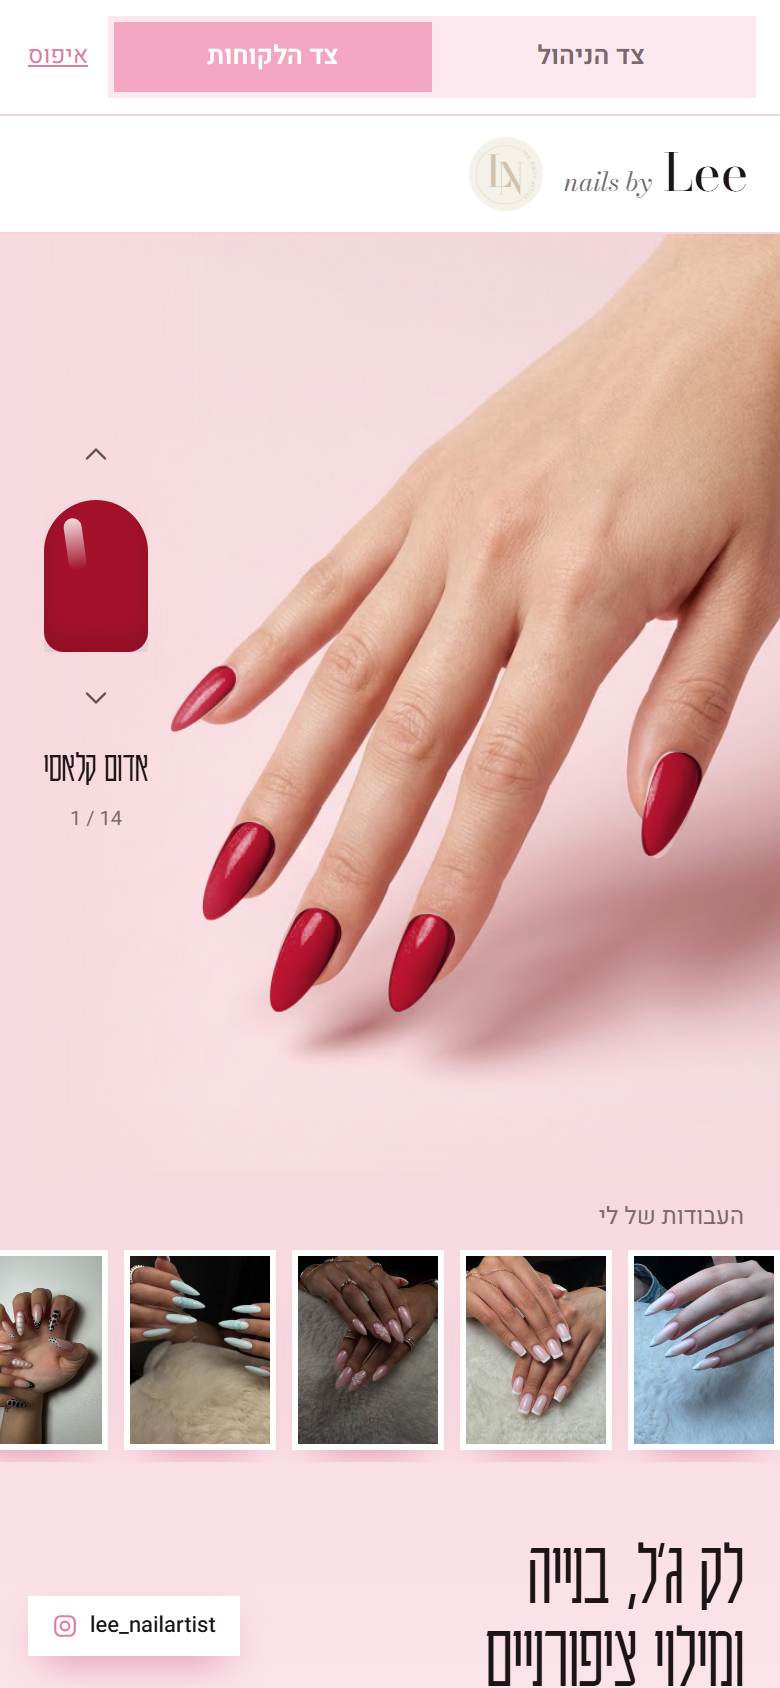
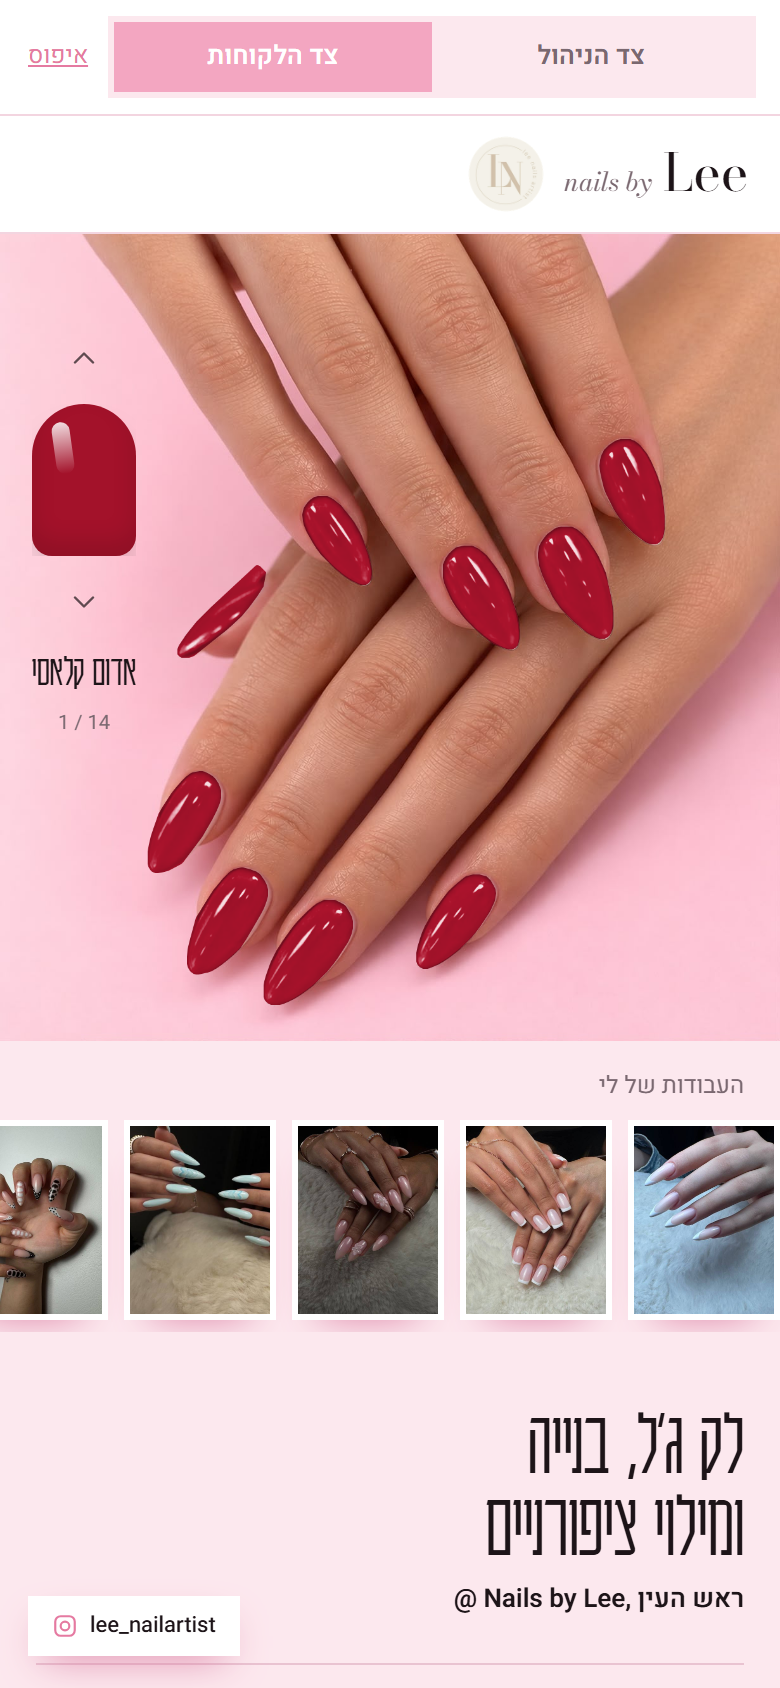
New studio photo for the try-on: ten nails, each filled by its convex outline, brush runs from cuticle to tip

diff --git a/web/src/lib/tryon.ts b/web/src/lib/tryon.ts
@@ -1,10 +1,10 @@
 import { rgbOf } from './shades';
 
 /**
- * Paints the nails of the studio hand photo (white gel on a pink set) in any shade.
- * The nails are found by colour once, then each one is measured (axis, length, width) and covered
- * with an exact almond, so the paint reaches the edge and never spills onto skin or background.
- * The photo's own light and shadow stay on the nail, with a gel shine where the original was brightest.
+ * Paints the nails of the studio hands photo (milky gel on a pink set) in any shade.
+ * The nails are found by colour once and each one is filled by its convex outline, so the paint
+ * reaches the edge and never spills onto skin or background. The photo's own light and shadow stay
+ * on the nail, with a gel shine where the original reflected the light.
  */
 export class TryOn {
   private ctx: CanvasRenderingContext2D;
@@ -13,9 +13,9 @@ export class TryOn {
   private base!: ImageData;
   private shown!: ImageData;
   private mask!: Float32Array;
-  private lum!: Float32Array;
+  private light!: Float32Array; // brightness around the nail's own average, so the white tips don't show through
   private gloss!: Float32Array;
-  private meanL = 0.85;
+  private along!: Float32Array; // 0 at the cuticle .. 1 at the tip, with a small head start per nail
   private frame = 0;
 
   constructor(private canvas: HTMLCanvasElement) {
@@ -30,105 +30,126 @@ export class TryOn {
     this.base = this.ctx.getImageData(0, 0, W, H);
     const p = this.base.data;
     const N4 = (i: number) => [i - 1, i + 1, i - W, i + W];
+    const pieces = (on: ArrayLike<number>, visit: (comp: number[]) => void) => {
+      const seen = new Uint8Array(n);
+      for (let i = 0; i < n; i++) {
+        if (!on[i] || seen[i]) continue;
+        const comp = [i];
+        seen[i] = 1;
+        for (let h = 0; h < comp.length; h++)
+          for (const j of N4(comp[h])) if (j >= 0 && j < n && on[j] && !seen[j]) (seen[j] = 1), comp.push(j);
+        visit(comp);
+      }
+    };
 
-    // white gel = light and colourless; its shaded side picks up a little pink, so grow into that a few pixels
-    const m = new Uint8Array(n);
-    const weak = new Uint8Array(n);
-    const lum = (this.lum = new Float32Array(n));
+    // The gel is light and nearly colourless. Its shaded side and the cuticle are pinker, but unlike the
+    // background their blue stays close to their green, and unlike skin it doesn't fall below it.
+    const m = new Uint8Array(n), near = new Uint8Array(n), loose = new Uint8Array(n);
+    const lum = new Float32Array(n);
     for (let i = 0; i < n; i++) {
       const r = p[i * 4], g = p[i * 4 + 1], b = p[i * 4 + 2];
-      const mx = Math.max(r, g, b), mn = Math.min(r, g, b), l = (mx + mn) / 2, s = mx ? (mx - mn) / mx : 0;
+      const mx = Math.max(r, g, b), mn = Math.min(r, g, b), l = (mx + mn) / 2, s = mx ? (mx - mn) / mx : 0, d = b - g;
       lum[i] = (0.3 * r + 0.59 * g + 0.11 * b) / 255;
-      if (s < 0.1 && l > 150) m[i] = 1;
-      if (s < 0.2 && mx < 238 && b >= g - 6 && l > 140) weak[i] = 1;
+      if (s < 0.16 && l > 170) m[i] = 1;
+      if (s < 0.3 && d >= -3 && l > 130) {
+        if (d <= 10) near[i] = 1;
+        if (d <= 18 && r < 238) loose[i] = 1;
+      }
     }
+    pieces(m.slice(), (comp) => {
+      if (comp.length < 1500) for (const a of comp) m[a] = 0;
+    });
     let front: number[] = [];
     for (let i = 0; i < n; i++) if (m[i]) front.push(i);
-    for (let d = 0; d < 6; d++) {
+    for (let d = 0; d < 60; d++) {
       const next: number[] = [];
-      for (const i of front) for (const j of N4(i)) if (j >= 0 && j < n && !m[j] && weak[j]) (m[j] = 1), next.push(j);
+      for (const i of front) for (const j of N4(i)) if (j >= 0 && j < n && !m[j] && near[j]) (m[j] = 1), next.push(j);
       front = next;
     }
 
-    // one almond per nail
+    // smooth the outline, close the reflections, drop anything that isn't nail-sized
+    let f = box(box(Float32Array.from(m), 5, W, H), 5, W, H);
+    for (let i = 0; i < n; i++) f[i] = f[i] > 0.5 ? 1 : 0;
+    const outside = new Uint8Array(n);
+    const edge: number[] = [];
+    for (let x = 0; x < W; x++) edge.push(x, (H - 1) * W + x);
+    for (let y = 0; y < H; y++) edge.push(y * W, y * W + W - 1);
+    const stack = edge.filter((i) => !f[i]);
+    for (const i of stack) outside[i] = 1;
+    while (stack.length) for (const j of N4(stack.pop()!)) if (j >= 0 && j < n && !outside[j] && !f[j]) (outside[j] = 1), stack.push(j);
+    for (let i = 0; i < n; i++) f[i] = outside[i] ? 0 : 1;
+    pieces(f.slice(), (comp) => {
+      if (comp.length < 1500) for (const a of comp) f[a] = 0;
+    });
+
+    // the cuticle side grows a little further, only above each nail's middle: the tips touch the background
+    const extra: number[] = [];
+    pieces(f, (comp) => {
+      let sum = 0;
+      for (const a of comp) sum += (a / W) | 0;
+      const mid = sum / comp.length, added = new Set<number>();
+      let ring = comp;
+      for (let d = 0; d < 30; d++) {
+        const next: number[] = [];
+        for (const a of ring)
+          for (const j of N4(a)) if (j >= 0 && j < n && !f[j] && !added.has(j) && loose[j] && ((j / W) | 0) < mid) added.add(j), next.push(j);
+        ring = next;
+      }
+      extra.push(...added);
+    });
+    for (const j of extra) f[j] = 1;
+
+    // every nail is convex: fill its outline, so notches close and nothing can leak
     const off = document.createElement('canvas');
     off.width = W;
     off.height = H;
     const ox = off.getContext('2d')!;
-    ox.fillStyle = '#fff';
-    const seen = new Uint8Array(n);
-    for (let i = 0; i < n; i++) {
-      if (!m[i] || seen[i]) continue;
-      const comp = [i];
-      seen[i] = 1;
-      for (let h = 0; h < comp.length; h++)
-        for (const j of N4(comp[h])) if (j >= 0 && j < n && m[j] && !seen[j]) (seen[j] = 1), comp.push(j);
-      if (comp.length >= 800) this.almond(ox, comp);
-    }
+    ox.fillStyle = ox.strokeStyle = '#fff';
+    ox.lineJoin = 'round';
+    ox.lineWidth = 4;
+    pieces(f, (comp) => {
+      const hull = convexHull(comp.map((a) => [a % W, (a / W) | 0]));
+      ox.beginPath();
+      hull.forEach(([x, y], k) => (k ? ox.lineTo(x, y) : ox.moveTo(x, y)));
+      ox.closePath();
+      ox.fill();
+      ox.stroke();
+    });
     const md = ox.getImageData(0, 0, W, H).data;
-    this.mask = new Float32Array(n);
+    const mask = (this.mask = new Float32Array(n));
+    for (let i = 0; i < n; i++) mask[i] = md[i * 4 + 3] / 255;
+
+    // light on the nail relative to its surroundings, measured inside the nail only
+    const inside = Float32Array.from(mask, (a) => (a > 0.5 ? 1 : 0));
+    const weighted = box(Float32Array.from(lum, (l, i) => l * inside[i]), 16, W, H);
+    const weight = box(inside, 16, W, H);
+    const soft = box(lum, 1, W, H);
+    this.light = new Float32Array(n);
     this.gloss = new Float32Array(n);
-    let sum = 0, cnt = 0;
     for (let i = 0; i < n; i++) {
-      const a = (this.mask[i] = md[i * 4 + 3] / 255);
-      if (a > 0.9) (sum += lum[i]), cnt++;
-      if (a > 0) this.gloss[i] = Math.max(0, lum[i] - 0.92) * 10;
+      if (!mask[i]) continue;
+      const local = weight[i] > 0 ? weighted[i] / weight[i] : soft[i];
+      this.light[i] = soft[i] / local;
+      this.gloss[i] = Math.max(0, soft[i] - local - 0.025) * 9;
     }
-    this.meanL = cnt ? sum / cnt : 0.85;
+
+    // the brush runs down each nail, one nail just after the other
+    this.along = new Float32Array(n);
+    let nail = 0;
+    pieces(inside, (comp) => {
+      let top = H, bottom = 0;
+      for (const a of comp) {
+        const y = (a / W) | 0;
+        if (y < top) top = y;
+        if (y > bottom) bottom = y;
+      }
+      for (const a of comp) this.along[a] = (((a / W) | 0) - top) / Math.max(1, bottom - top) + nail * 0.12;
+      nail++;
+    });
+    for (let i = 0; i < n; i++) if (mask[i] && !inside[i]) this.along[i] = this.along[i - 1] || this.along[i + 1] || this.along[i - W] || this.along[i + W] || 0;
+
     this.shown = new ImageData(new Uint8ClampedArray(p), W, H);
     this.ctx.putImageData(this.shown, 0, 0);
-  }
-
-  private almond(ox: CanvasRenderingContext2D, comp: number[]) {
-    const W = this.W;
-    let cx = 0, cy = 0;
-    for (const a of comp) (cx += a % W), (cy += (a / W) | 0);
-    cx /= comp.length;
-    cy /= comp.length;
-    let sxx = 0, syy = 0, sxy = 0;
-    for (const a of comp) {
-      const dx = (a % W) - cx, dy = ((a / W) | 0) - cy;
-      sxx += dx * dx;
-      syy += dy * dy;
-      sxy += dx * dy;
-    }
-    // principal axis, pointing to the tip (down in this photo)
-    const ang = 0.5 * Math.atan2(2 * sxy, sxx - syy);
-    let ux = Math.cos(ang), uy = Math.sin(ang);
-    if (uy < 0) (ux = -ux), (uy = -uy);
-    const us: number[] = [], uv: [number, number][] = [];
-    for (const a of comp) {
-      const dx = (a % W) - cx, dy = ((a / W) | 0) - cy, u = dx * ux + dy * uy;
-      us.push(u);
-      uv.push([u, -dx * uy + dy * ux]);
-    }
-    us.sort((a, b) => a - b);
-    let u0 = us[Math.floor(us.length * 0.01)], u1 = us[Math.floor(us.length * 0.995)];
-    const L0 = u1 - u0;
-    u0 -= 0.04 * L0;
-    u1 += 0.05 * L0;
-    const L = u1 - u0;
-    // width from the middle of the nail; the detected part leans to the lit side, so widen and shift toward the shade
-    const mid = uv.filter(([u]) => u > us[0] + L0 * 0.25 && u < us[0] + L0 * 0.55).map(([, v]) => v).sort((a, b) => a - b);
-    const v0 = mid[Math.floor(mid.length * 0.03)], v1 = mid[Math.floor(mid.length * 0.97)];
-    const w = ((v1 - v0) / 2) * 1.3, vc = (v0 + v1) / 2 - 0.2 * w;
-    const pt = (u: number, v: number) => [cx + ux * (u0 + u) - uy * (vc + v), cy + uy * (u0 + u) + ux * (vc + v)];
-    const half = (u: number) => {
-      const c = 0.2 * L;
-      if (u < c) return w * Math.sqrt(1 - Math.pow((c - u) / c, 2));
-      return w * Math.pow(1 - Math.pow((u - c) / (L - c), 2.2), 0.55);
-    };
-    ox.beginPath();
-    for (let k = 0; k <= 80; k++) {
-      const [a, b] = pt((L * k) / 80, half((L * k) / 80));
-      k ? ox.lineTo(a, b) : ox.moveTo(a, b);
-    }
-    for (let k = 80; k >= 0; k--) {
-      const [a, b] = pt((L * k) / 80, -half((L * k) / 80));
-      ox.lineTo(a, b);
-    }
-    ox.closePath();
-    ox.fill();
   }
 
   private painted(hex: string) {
@@ -137,17 +158,17 @@ export class TryOn {
     for (let i = 0; i < n; i++) {
       const a = this.mask[i];
       if (a < 0.01) continue;
-      const f = Math.min(1.08, Math.max(0.55, this.lum[i] / this.meanL));
-      const hl = Math.min(1, this.gloss[i] * (dark ? 1 : 0.6));
+      const f = Math.min(1.1, Math.max(0.8, this.light[i]));
+      const hl = Math.min(0.85, this.gloss[i] * (dark ? 1 : 0.6));
       for (let k = 0; k < 3; k++) {
-        const c = Math.min(255, [R, G, B][k] * Math.pow(f, dark ? 1.8 : 1.3));
+        const c = Math.min(255, [R, G, B][k] * Math.pow(f, dark ? 1.6 : 1.2));
         out[i * 4 + k] = p[i * 4 + k] * (1 - a) + (c + (255 - c) * hl) * a;
       }
     }
     return out;
   }
 
-  /** Paints the shade on; with motion, the colour runs along the nails from the cuticle to the tip. */
+  /** Paints the shade on; with motion, the colour runs along each nail from the cuticle to the tip. */
   paint(hex: string, animate: boolean) {
     if (!this.base) return;
     cancelAnimationFrame(this.frame);
@@ -157,14 +178,14 @@ export class TryOn {
       this.ctx.putImageData(this.shown, 0, 0);
       return;
     }
-    const from = new Uint8ClampedArray(this.shown.data), { W, H, mask } = this, n = W * H;
-    const t0 = performance.now(), dur = 850, edge = 40;
+    const from = new Uint8ClampedArray(this.shown.data), { mask, along } = this, n = this.W * this.H;
+    const t0 = performance.now(), dur = 1000, soft = 0.25, span = 1 + 9 * 0.12 + soft;
     const step = (t: number) => {
-      const k = Math.min(1, (t - t0) / dur), e = 1 - Math.pow(1 - k, 3), line = e * (H * 0.5 + edge) + H * 0.42 - edge;
+      const k = Math.min(1, (t - t0) / dur), line = (1 - Math.pow(1 - k, 2)) * span;
       const d = this.shown.data;
       for (let i = 0; i < n; i++) {
         if (mask[i] < 0.01) continue;
-        const w = Math.max(0, Math.min(1, (line - ((i / W) | 0)) / edge + 1)), j = i * 4;
+        const w = Math.max(0, Math.min(1, (line - along[i]) / soft)), j = i * 4;
         d[j] = from[j] + (to[j] - from[j]) * w;
         d[j + 1] = from[j + 1] + (to[j + 1] - from[j + 1]) * w;
         d[j + 2] = from[j + 2] + (to[j + 2] - from[j + 2]) * w;
@@ -178,4 +199,43 @@ export class TryOn {
   stop() {
     cancelAnimationFrame(this.frame);
   }
+}
+
+/** Separable box blur of radius r. */
+function box(a: Float32Array, r: number, W: number, H: number) {
+  const n = W * H, o = new Float32Array(n), out = new Float32Array(n);
+  for (let y = 0; y < H; y++) {
+    let t = 0, c = 0;
+    for (let x = -r; x < W; x++) {
+      const add = x + r, drop = x - r - 1;
+      if (add < W) (t += a[y * W + add]), c++;
+      if (drop >= 0) (t -= a[y * W + drop]), c--;
+      if (x >= 0) o[y * W + x] = t / c;
+    }
+  }
+  for (let x = 0; x < W; x++) {
+    let t = 0, c = 0;
+    for (let y = -r; y < H; y++) {
+      const add = y + r, drop = y - r - 1;
+      if (add < H) (t += o[add * W + x]), c++;
+      if (drop >= 0) (t -= o[drop * W + x]), c--;
+      if (y >= 0) out[y * W + x] = t / c;
+    }
+  }
+  return out;
+}
+
+function convexHull(points: number[][]) {
+  const pts = points.slice().sort((a, b) => a[0] - b[0] || a[1] - b[1]);
+  const cross = (o: number[], a: number[], b: number[]) => (a[0] - o[0]) * (b[1] - o[1]) - (a[1] - o[1]) * (b[0] - o[0]);
+  const half = (list: number[][]) => {
+    const h: number[][] = [];
+    for (const p of list) {
+      while (h.length > 1 && cross(h[h.length - 2], h[h.length - 1], p) <= 0) h.pop();
+      h.push(p);
+    }
+    h.pop();
+    return h;
+  };
+  return [...half(pts), ...half(pts.slice().reverse())];
 }

diff --git a/web/src/styles.css b/web/src/styles.css
@@ -424,14 +424,11 @@ body::before { background: #fff; }
 .brand b { font: 400 26px/1 var(--logo); }
 
 /* ---------- front page ---------- */
-.front { max-width: 520px; margin: 0 auto; padding-bottom: 80px; background: linear-gradient(var(--blush) 0, var(--blush) 540px, var(--bg) 900px); min-height: 100dvh; }
-.tryon { position: relative; height: 470px; overflow: hidden; background: var(--blush); }
-.tryon canvas { position: absolute; right: -78px; top: -60px; width: 452px; height: auto;
-  -webkit-mask: linear-gradient(to right, transparent, #000 22%), linear-gradient(#000 88%, transparent); -webkit-mask-composite: source-in;
-  mask: linear-gradient(to right, transparent, #000 22%), linear-gradient(#000 88%, transparent); mask-composite: intersect;
-  animation: hand-in 1.4s cubic-bezier(.2,.7,.1,1) both; }
-@keyframes hand-in { from { opacity: 0; transform: translate(30px, -20px); } }
-.pick { position: absolute; z-index: 2; left: 16px; top: 96px; width: 64px; display: flex; flex-direction: column; align-items: center; gap: 8px; touch-action: none; }
+.front { max-width: 520px; margin: 0 auto; padding-bottom: 80px; background: var(--bg); min-height: 100dvh; }
+.tryon { position: relative; overflow: hidden; background: #fbc0d4; }
+.tryon canvas { display: block; width: 100%; height: auto; animation: hand-in 1.2s ease both; }
+@keyframes hand-in { from { opacity: 0; } }
+.pick { position: absolute; z-index: 2; left: 10px; top: 48px; width: 64px; display: flex; flex-direction: column; align-items: center; gap: 8px; touch-action: none; }
 .pick .arrow { width: 40px; height: 30px; border: 0; background: none; display: grid; place-items: center; color: var(--ink); opacity: .7; padding: 0; }
 .pick .arrow svg { width: 18px; height: 18px; fill: none; stroke: currentColor; stroke-width: 1.6; stroke-linecap: round; stroke-linejoin: round; }
 .pick .well { position: relative; width: 52px; height: 76px; overflow: hidden; border: 0; padding: 0; background: none; }
@@ -504,9 +501,8 @@ body::before { background: #fff; }
 @media (min-width: 960px) {
   .front { max-width: 1180px; display: grid; grid-template-columns: minmax(0, 1fr) minmax(0, 1.15fr); grid-template-areas: "bar bar" "intro hero" "book hero" "work work"; column-gap: 56px; align-content: start; padding: 0 40px 80px; background: var(--bg); }
   .front .brand-bar { grid-area: bar; max-width: none; margin: 0 -40px; padding: 0 40px; }
-  .front .tryon { grid-area: hero; height: 680px; margin-top: 32px; }
-  .front .tryon canvas { width: 640px; right: -90px; top: -90px; }
-  .front .pick { top: 150px; left: 28px; }
+  .front .tryon { grid-area: hero; margin-top: 32px; align-self: start; }
+  .front .pick { top: 90px; left: 18px; }
   .front .intro { grid-area: intro; padding: 72px 0 0; }
   .front .intro h1 { font-size: 76px; }
   .front .card.book { grid-area: book; margin: 32px 0 0; align-self: start; }

diff --git a/web/src/client/TryOnHero.tsx b/web/src/client/TryOnHero.tsx
@@ -2,7 +2,7 @@ import { useEffect, useRef, useState } from 'react';
 import { SHADES, shadeById, type ShadeId } from '../lib/shades';
 import { TryOn } from '../lib/tryon';
 
-const HAND = '/hand.png';
+const HAND = '/hand.jpg';
 const calm = () => typeof matchMedia !== 'undefined' && matchMedia('(prefers-reduced-motion: reduce)').matches;
 
 /**

diff --git a/README.md b/README.md
@@ -17,7 +17,7 @@ The interface is in Hebrew (right-to-left), built for phones first; on a wide sc
 ## What it does
 
 **For clients**
-- Try a shade on before booking: tap through 14 polish colours and the nails on the hand photo get painted in it. The shade she picks goes to Lee with the request, and Lee sees it on the request as a small painted nail
+- Try a shade on before booking: tap through 14 polish colours and the nails in the photo get painted in it. The shade she picks goes to Lee with the request, and Lee sees it on the request as a small painted nail
 - Sign in with name and phone number (no passwords to forget)
 - Pick a day and time from what Lee opened, then the treatment and extras, with the price as they go
 - See their upcoming appointments, cancel up to N hours before (Lee sets N)
@@ -45,7 +45,7 @@ server/   Express + SQLite (node:sqlite). Runs the same core/ behind real auth.
 
 The interesting decision is **`core/handler.ts`**. All of the rules (which slots are free, who can cancel when, what counts toward this month's income, who is due for a visit) live in one pure function with no database or HTTP in it. The server wraps it with authentication and persistence. The demo wraps it with localStorage. Both run exactly the same rules, and the tests exercise them directly without starting anything.
 
-**The try-on** (`web/src/lib/tryon.ts`) works on one studio photo of a hand with white gel nails on a pink set. It finds the nails by colour, then measures each one (principal axis, length, width) and lays an exact almond over it, so the paint always reaches the edge of the nail and never spills onto skin. The photo's own light and shadow stay on the nail, with a gel shine where the original was brightest.
+**The try-on** (`web/src/lib/tryon.ts`) works on one studio photo of hands with milky gel nails on a pink set. It finds the nails by colour (the gel keeps its blue close to its green, while the background runs bluer and skin less blue), smooths each one and fills it by its convex outline, so the paint reaches the edge of the nail and never spills. The photo's own light and shadow stay on the nail, with a gel shine where the original reflected the light.
 
 **Server details**
 - **Logins are signed tokens** (HMAC-SHA256 with an expiry), so a client can't change her id or make herself an admin. The admin password comes from an environment variable and is compared in constant time. Admin login is limited to 5 attempts per 15 minutes per IP.
